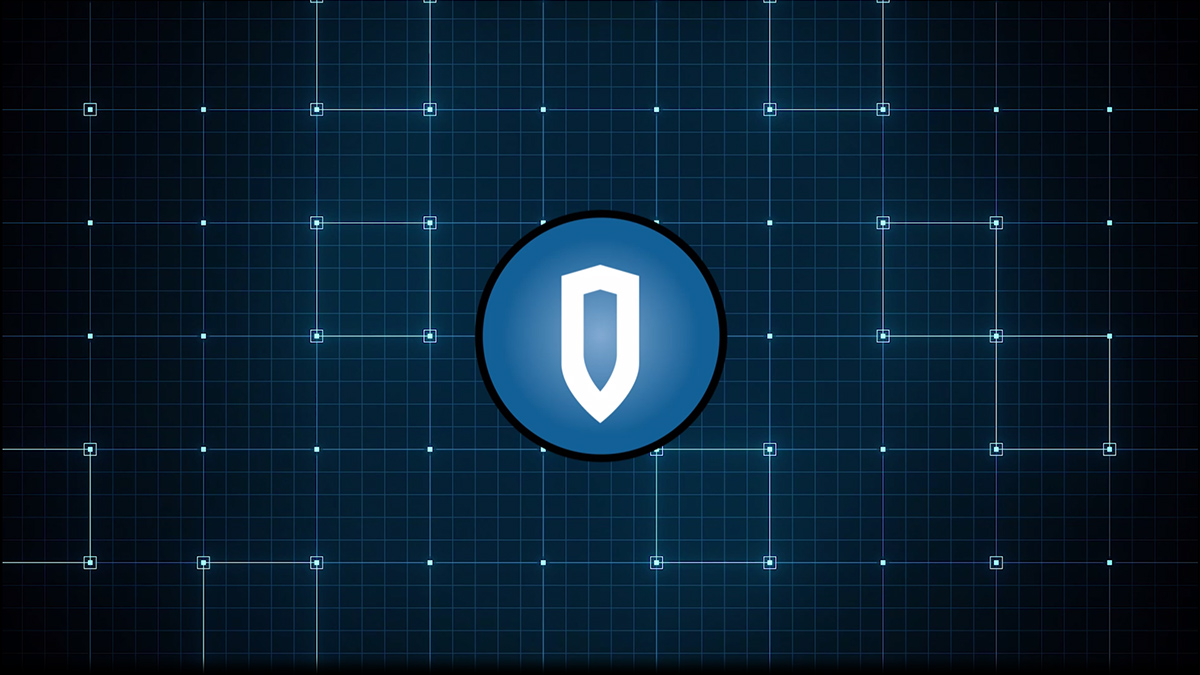
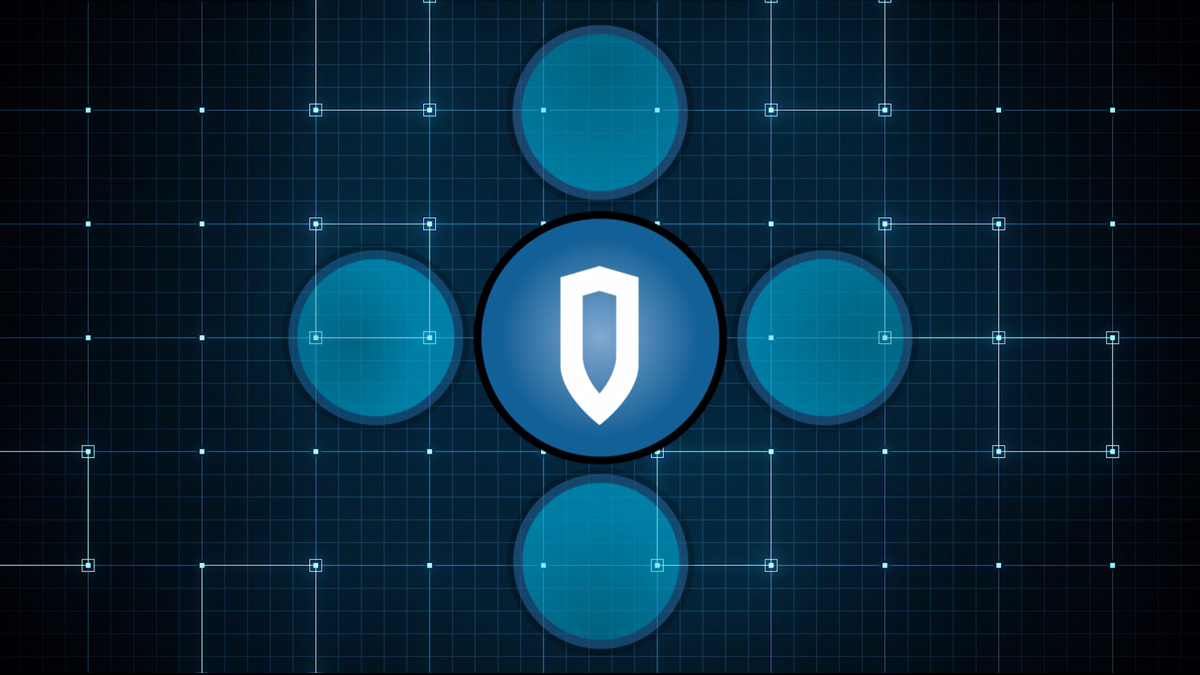
updated loop video & background graphic

diff --git a/index.html b/index.html
@@ -43,9 +43,9 @@
     <a class="circle circle-full" data-videoname="" href=""><span>Respond</span></a>
   </div>
 
-  <video class="home-video-background" id="home-video-background" width="1200" autoplay loop poster="img/intro-placeholder.jpg">
+  <video class="home-video-background" id="home-video-background" width="1200" autoplay loop poster="img/intro-background.jpg">
       <!--source src="http://kristenzirkler.com/wp-content/uploads/video/home-page-video-8.webm" type="video/webm" /-->
-      <source src="http://kristenzirkler.com/wp-content/uploads/video/Loop_3.mp4" type="video/mp4" />
+      <source src="http://kristenzirkler.com/wp-content/uploads/video/background-loop.mp4" type="video/mp4" />
   </video>
 </div>
 
